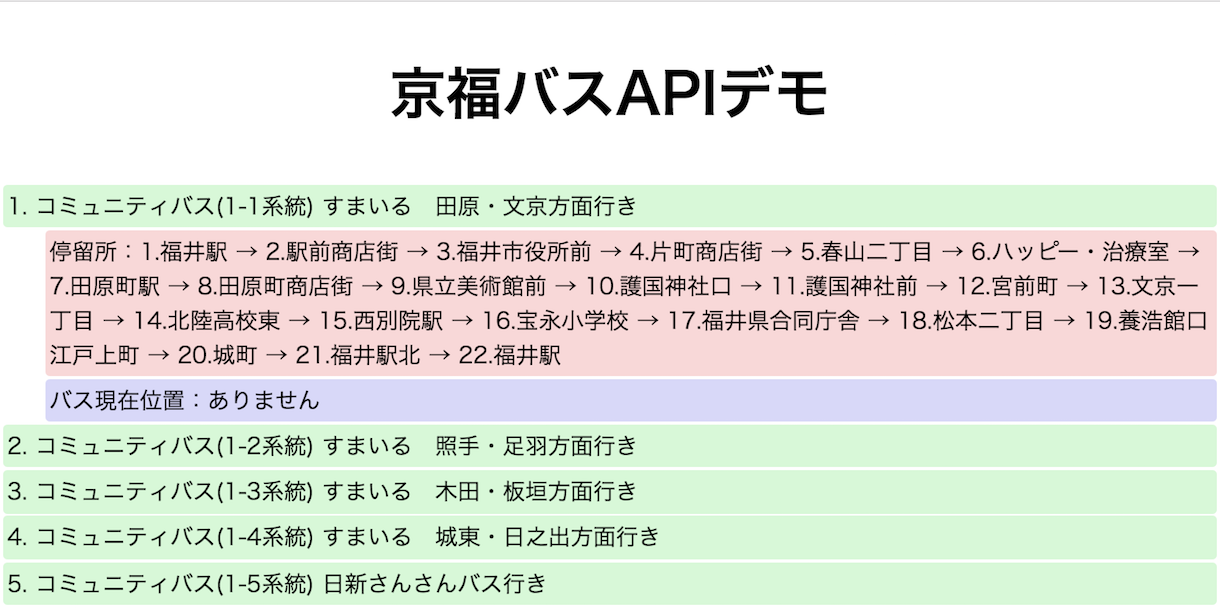
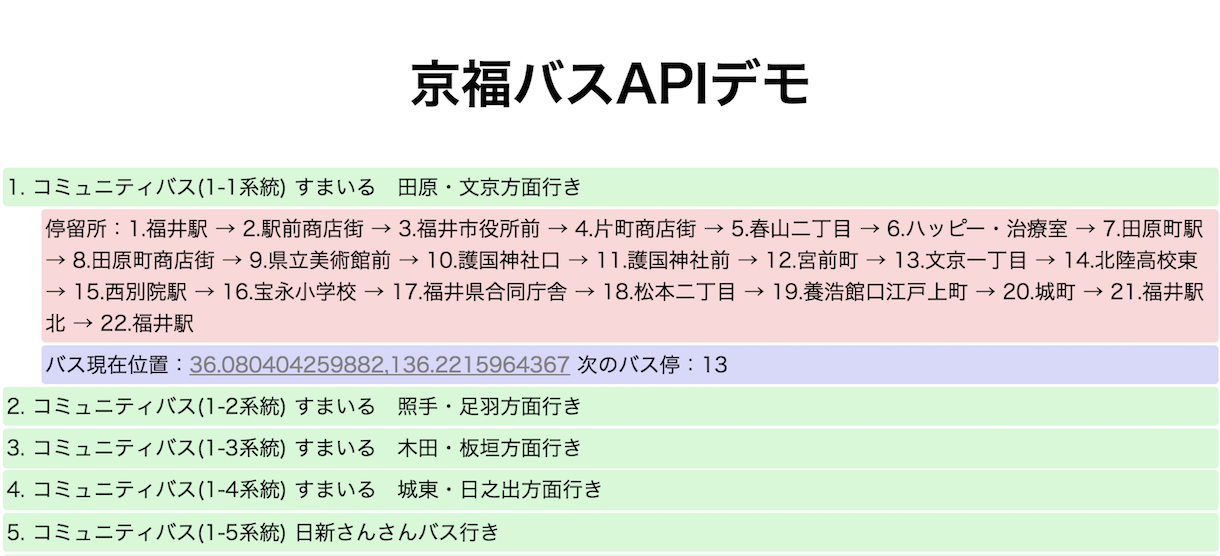
disable close

Changed region(s): [[0.0, 0.3058, 1.0, 1.0], [0.3115, 0.0917, 0.6852, 0.214], [0.0, 0.0, 1.0, 0.0306]]

diff --git a/keifukubusapidemo.html b/keifukubusapidemo.html
@@ -54,6 +54,7 @@ window.onload = function() {
 					div2.innerHTML = "バス現在位置：" + s;
 					div2.style.marginLeft = "2em";
 					c.insertBefore(div2, div.nextSibling);
+					/*
 					div2.style.cursor = "pointer";
 					div2.onclick = function() {
 						c.removeChild(this);
@@ -63,6 +64,7 @@ window.onload = function() {
 							this.p.div2 = null;
 						}
 					};
+					*/
 					div2.className = "buspos";
 					div2.p = div;
 					div.div3 = div2;
@@ -79,6 +81,7 @@ window.onload = function() {
 						div2.textContent = "停留所：" + s.join(" → ");
 						div2.style.marginLeft = "2em";
 						c.insertBefore(div2, div.nextSibling);
+						/*
 						div2.style.cursor = "pointer";
 						div2.onclick = function() {
 							c.removeChild(this);
@@ -88,6 +91,7 @@ window.onload = function() {
 								this.p.div3 = null;
 							}
 						};
+						*/
 						div2.className = "busstop";
 						div2.p = div;
 						div.div2 = div2;
